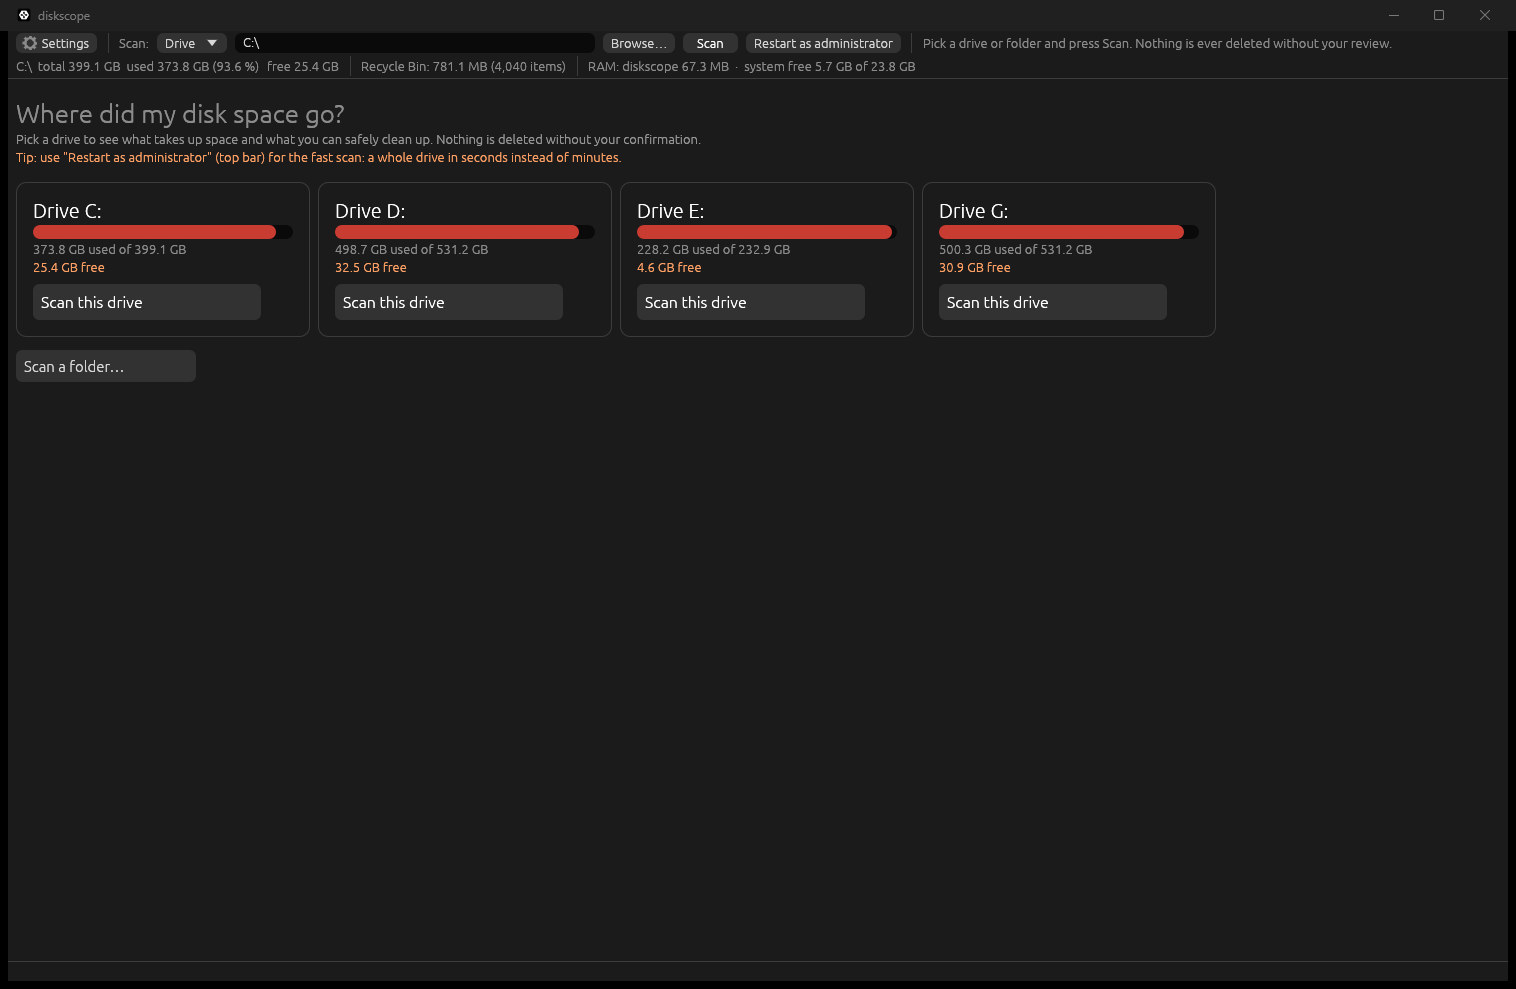
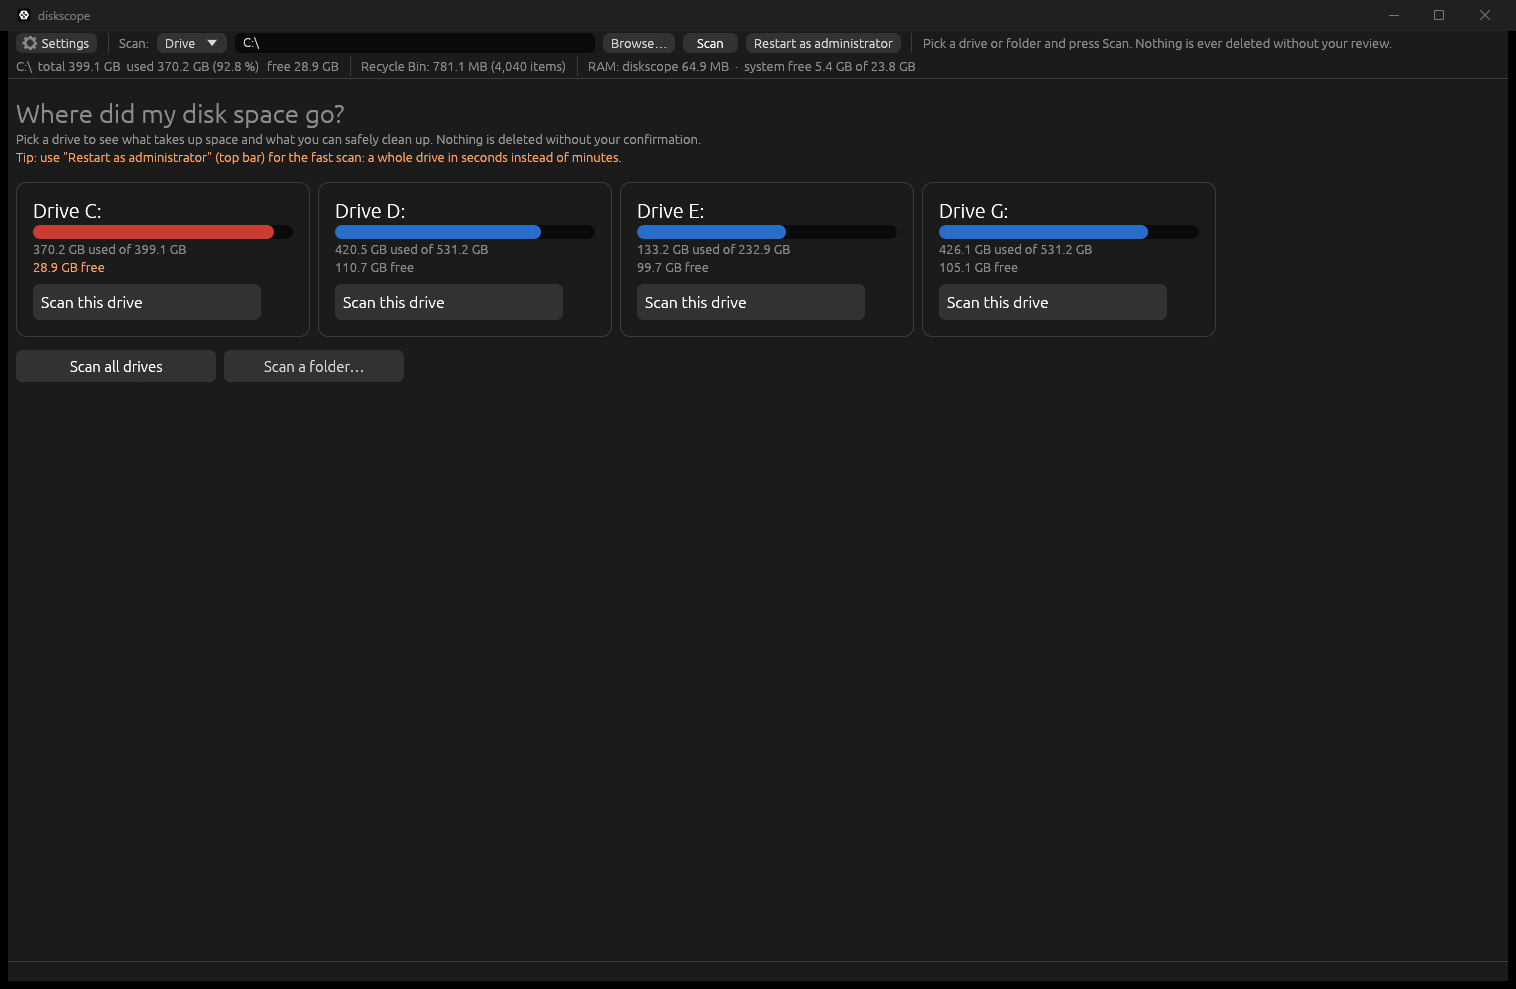
perf: drives in 'Scan all drives' run one after another (side by side: 4-8% faster, +44% peak memory); docs: v0.3.2 measured numbers, home screenshot

diff --git a/src/scan/mod.rs b/src/scan/mod.rs
@@ -55,26 +55,22 @@ pub fn scan_with(root: &Path, progress: &Progress, method: Method) -> Result<Tre
     Ok(t)
 }
 
-/// Scans several roots (drives) into one tree under a virtual "This PC" root. Each root runs its
-/// own pipeline on its own thread (DISKSCOPE_DRIVES_PAR=0: one after another, for comparisons);
-/// progress, cancel and live suggestions are shared. One root = a normal scan.
+/// Scans several roots (drives) into one tree under a virtual "This PC" root, one drive after
+/// another (each drive's scan is already parallel inside). Measured side by side on C:+D:+E:, it
+/// was only 4-8 % faster for +44 % peak memory, so drives run in turn and each one's working
+/// data is freed before the next. Progress, cancel and live suggestions are shared.
 pub fn scan_many(roots: &[PathBuf], progress: &Progress, method: Method) -> Result<Tree, String> {
     if roots.len() == 1 {
         return scan_with(&roots[0], progress, method);
     }
     let start = std::time::Instant::now();
-    let one = |r: &PathBuf| scan_with(r, progress, method);
-    let trees: Vec<Result<Tree, String>> = if profile::knob("DISKSCOPE_DRIVES_PAR", 1) != 0 {
-        std::thread::scope(|s| {
-            let hs: Vec<_> = roots.iter().map(|r| s.spawn(move || one(r))).collect();
-            hs.into_iter().map(|h| h.join().unwrap_or_else(|_| Err("scan thread panicked".into()))).collect()
-        })
-    } else {
-        roots.iter().map(one).collect()
-    };
     let mut all = Tree::multi_root();
-    for t in trees.into_iter().rev() {
-        all.graft(t?); // reversed: the first root ends up first among the drive nodes
+    for r in roots.iter().rev() {
+        // Reversed: the last graft is listed first, so the first root ends up first.
+        all.graft(scan_with(r, progress, method)?);
+        if progress.cancel.load(Relaxed) {
+            break;
+        }
     }
     all.scanned_at = crate::fmt::now();
     all.elapsed_ms = start.elapsed().as_millis() as u64;

diff --git a/src/gui/home.rs b/src/gui/home.rs
@@ -38,8 +38,8 @@ pub fn ui(ui: &mut Ui, drives: &[Drive], elevated: bool) -> Option<PathBuf> {
     ui.add_space(10.0);
     ui.horizontal(|ui| {
         if drives.len() > 1 {
-            let all = egui::Button::new(RichText::new("Scan all drives at once").size(15.0).strong()).min_size(Vec2::new(220.0, 32.0));
-            if ui.add(all).on_hover_text("Every local NTFS drive is scanned at the same time and shown in one tree (\"This PC\"). Cloud drives such as Google Drive are left out.").clicked() {
+            let all = egui::Button::new(RichText::new("Scan all drives").size(15.0).strong()).min_size(Vec2::new(200.0, 32.0));
+            if ui.add(all).on_hover_text("Every local NTFS drive, one after another, shown in one tree (\"This PC\"). Cloud drives such as Google Drive are left out.").clicked() {
                 pick = Some(PathBuf::from(crate::model::graft::ALL_DRIVES));
             }
         }

diff --git a/src/cli/mod.rs b/src/cli/mod.rs
@@ -9,7 +9,7 @@ pub const HELP: &str = "diskscope - disk usage report (read-only)
 
 USAGE:
   diskscope scan <path> [options]       scan a drive (C:) or a folder and print a report
-  diskscope scan C: D: ... | all        scan several drives at the same time (one tree;
+  diskscope scan C: D: ... | all        scan several drives into one tree (one after another;
                                          all = every local NTFS drive)
   diskscope [path]                       open the window (and scan <path> if given)
 
@@ -31,7 +31,7 @@ The CLI never deletes anything. Cleanup only happens in the window, after review
 explicit confirmation.";
 
 pub struct Options {
-    /// One path, or several drives scanned side by side into one tree.
+    /// One path, or several drives scanned into one tree.
     pub paths: Vec<PathBuf>,
     pub json: bool,
     pub top: usize,

diff --git a/src/gui/header.rs b/src/gui/header.rs
@@ -58,7 +58,7 @@ impl Header {
             ui.separator();
             ui.label("Scan:");
             egui::ComboBox::from_id_salt("drive").selected_text("Drive").width(70.0).show_ui(ui, |ui| {
-                if self.drives.len() > 1 && ui.selectable_label(false, "All drives at once (This PC)").clicked() {
+                if self.drives.len() > 1 && ui.selectable_label(false, "All drives (This PC)").clicked() {
                     self.path = crate::model::graft::ALL_DRIVES.to_string();
                 }
                 for d in &self.drives {

diff --git a/src/gui/loaded.rs b/src/gui/loaded.rs
@@ -96,7 +96,7 @@ impl Derived {
     }
 }
 
-/// "This PC" means every local NTFS drive (scanned side by side); anything else is one path.
+/// "This PC" means every local NTFS drive (one tree); anything else is one path.
 pub fn roots_of(path: &Path) -> Vec<PathBuf> {
     if is_all_drives(path) {
         crate::sys::all_drive_roots()

diff --git a/README.md b/README.md
@@ -20,8 +20,9 @@ diskscope shows where your disk space went: a folder tree, an extension table an
 
 - **Native Rust app: a single 8 MB exe.** No runtime, no installer, memory-safe code.
 - **Fast NTFS scan (run as administrator).**
-  - It reads the Master File Table directly, like WizTree: a 3.0M-item C: in **10.7 s** and a 6.7M-item D: in **9.5 s** on the test PC.
+  - It reads the Master File Table directly, like WizTree, with four reads in flight and the folder tree built in parallel: a 2.7M-item C: in **2.5 s** and a 4.5M-item D: in **3.7 s** on the test PC (v0.3.2, warm).
   - Results are within **0.4-0.6 %** of the volume's used space.
+- **Scan all drives** into one tree ("This PC"), one drive after another. Only local NTFS drives are included, so cloud drives such as Google Drive are not walked over the network.
 - **True space used.** Hard links (pnpm, conda) are counted once, so the numbers add up to what the disk really holds.
 - **Lower memory** than the tool it was compared with (see the table below; measured numbers only).
 - **Live cleanup suggestions while scanning.**
@@ -42,7 +43,7 @@ diskscope shows where your disk space went: a folder tree, an extension table an
 - **Sortable everywhere:** tree, suggestions, Review, History and every list. Click a header to sort, click again to flip; the default is size, largest first. The tree sorts one folder level at a time, so it stays instant on millions of items.
 - **Last-touch dates:** Last modified for every file and folder (a folder shows the newest change inside it) and Last accessed (the tooltip notes that Windows may not update access times), shown as dates with "N days ago" in the tooltip.
 - **Fast, safe deletes.**
-  - Permanent delete runs in parallel (32 threads); read-only files, long paths and links are handled, and links are removed, never followed.
+  - Permanent delete runs in parallel (32 threads), and several selected items are deleted at the same time on that one pool, also across drives; read-only files, long paths and links are handled, and links are removed, never followed.
   - The Recycle Bin is a single Windows operation for the whole selection.
   - Before running, diskscope warns if an item is bigger than that drive's Recycle Bin.
   - Progress shows items, files, GB and an ETA, with Cancel; the window stays responsive.
@@ -66,6 +67,20 @@ Everything below was measured on one Windows 11 PC with an NVMe SSD (C:) on 2026
 
 Both runs were measured by the same script, which polled each process's OS-reported peak working set. WizTree's wall time includes its CSV export, so treat the time column as indicative and the memory column as the main comparison.
 
+### v0.3.2 vs v0.3.1: fast NTFS scan, same PC, elevated, warm (3 runs each, after one warm-up)
+
+| Drive | v0.3.1 | v0.3.2 | Peak private memory |
+|---|---|---|---|
+| C: NVMe, 2.7M items | 4.32-4.46 s | **2.44-2.54 s** | 500 MB -> 507 MB |
+| D: NVMe, 4.5M items | 6.20-6.45 s | **3.66-3.79 s** | 787 MB -> 800 MB |
+| E: SATA SSD, 1.2M items, 3.9 GB $MFT | 10.8-11.1 s | **9.97-9.98 s** | 302 MB -> 311 MB |
+
+Where the time went (from the built-in phase timings, `DISKSCOPE_PROFILE=1`): reading `$MFT` dominates. Four reads in flight cut reading + parsing on C: from about 3.9 s to 1.9-2.5 s, and building the folder tree in parallel cut it from 1.24 s to 0.67 s (C:) and 2.2 s to 0.56 s (D:). E: is limited by the SATA disk's bandwidth (its `$MFT` alone is 3.9 GB), so it gains little.
+
+Without admin rights, the folder walker now prepares each folder (labels, grouping) outside its shared lock: time holding the lock dropped 3.6x. A warm 265k-item folder went from 0.39-0.68 s to 0.29-0.53 s; a warm C: walk (2.9M items) stays at about 10-12 s, limited by Windows' folder listing itself.
+
+Scanning C:, D: and E: side by side was measured too: 15.7-16.1 s instead of 16.5-17.6 s one after another, but with 1.34 GB instead of 0.93 GB peak memory. That is not worth it, so "Scan all drives" scans them in turn.
+
 ### Delete speed (generated junk tree, before vs after v0.3.0)
 
 | Operation | v0.2.0 | v0.3.0 |
@@ -73,9 +88,17 @@ Both runs were measured by the same script, which polled each process's OS-repor
 | Permanent delete: 200,000 small files in 10,000 folders + 3 × 200 MB | 20.2 s | 8.7 s (10.8 s through the full confirm → execute path) |
 | Recycle Bin: 500 selected folders with 10,000 files | 11.4 s | 3.6 s |
 
-Measured with `cargo test --release --test delete_bench -- --ignored --nocapture`, which only works under its own generated folder in `D:\tmp`. Run-to-run variation was about ±2 s for the permanent case.
+v0.3.2 deletes several selected items at the same time (permanent delete):
 
-### diskscope on its own
+| Selection | one item after another | v0.3.2 |
+|---|---|---|
+| 500 folders, 20 files each | 1.23 s | **0.31 s** |
+| 2,000 folders, 5 files each | 3.63 s | **0.68 s** |
+| 60 folders spread over D: (NVMe) and E: (SATA SSD), 24,000 files | 0.54-0.57 s | **0.32-0.36 s** |
+
+Measured with `cargo test --release --test delete_bench -- --ignored --nocapture`, which only works under its own generated folders (`D:\tmp`, plus a capped `E:\tmp` tree for the cross-drive row, opt-in). The Recycle Bin rows are opt-in too, so a default run puts nothing in the bin. The machine was busy with other work, so single-tree timings varied between runs (the 200,000-file tree took 9.2-11.2 s in v0.3.2 runs).
+
+### diskscope on its own (v0.1-v0.3.1 measurements)
 
 | Target | Fast NTFS (MFT) scan | Folder walker (no admin) | Accuracy |
 |---|---|---|---|
@@ -109,7 +132,7 @@ Get `diskscope.exe` from the [latest release](https://github.com/nqvinh/diskscop
 
 ![Size per automatic label, with the biggest items of the selected label](docs/images/labels.png)
 
-Command line: `diskscope.exe <folder>` opens and scans a folder. `diskscope.exe <folder> --select <item>` also selects an item, and `--tab candidates` (or `labels`, `files`, `history`, ...) opens a tab, `--ext .mp4,.mkv` lists the files of those extensions, and `--settings <file>` uses another settings file.
+Command line: `diskscope.exe <folder>` opens and scans a folder. `diskscope.exe <folder> --select <item>` also selects an item, and `--tab candidates` (or `labels`, `files`, `history`, ...) opens a tab, `--ext .mp4,.mkv` lists the files of those extensions, and `--settings <file>` uses another settings file. `diskscope.exe "This PC"` scans all local NTFS drives into one tree; the read-only CLI takes several drives too: `diskscope-cli C: D: --top 20` or `diskscope-cli all`.
 
 ## Run as administrator for the fast scan
 
@@ -136,8 +159,8 @@ Reading the MFT needs administrator rights. Without them, diskscope uses its par
 **Fast path (NTFS, elevated):**
 1. diskscope opens `\\.\C:` for reading and asks for the volume layout (`FSCTL_GET_NTFS_VOLUME_DATA`, a read-only query).
 2. It maps `$MFT`'s own data runs, including attribute-list fragments on a heavily fragmented MFT.
-3. It reads `$MFT` sequentially in 8 MiB chunks while rayon parses the FILE records in parallel. For each record it applies the update-sequence fixups, merges base and extension records, and reads the `$STANDARD_INFORMATION` times, the Win32 name (skipping DOS short names) and the unnamed `$DATA` size.
-4. It builds the folder tree from the parent references.
+3. It reads `$MFT` in 8 MiB chunks through four independent read-only handles (four reads in flight) while rayon parses the FILE records in parallel. For each record it applies the update-sequence fixups, merges base and extension records, and reads the `$STANDARD_INFORMATION` times, the Win32 name (skipping DOS short names) and the unnamed `$DATA` size.
+4. It builds the folder tree from the parent references, breadth-first: slices of folders are prepared in parallel and added in a fixed order, so the tree is identical to a serial build.
 
 **Fallback:** a 32-thread directory walker that never follows junctions, symlinks or mount points.
 
@@ -156,10 +179,13 @@ cargo build --release        # Rust 1.95 is pinned in rust-toolchain.toml
 
 ```powershell
 cargo test --release
+$env:DISKSCOPE_PROFILE = 1; .\target\release\diskscope-cli.exe C: --top 1   # phase timings on stderr
 ```
 
-71 tests cover:
-- the MFT record parser (on synthetic FILE records) and the tree builder
+75 tests cover:
+- the MFT record parser (on synthetic FILE records), the read plan for `$MFT` chunks, and the tree builder (the parallel build matches the serial one node for node)
+- several drives in one tree (paths, totals, extension ids)
+- deleting many selected items in parallel (only the listed items go)
 - aggregation, the treemap layout and the blocklist
 - suggestion rules and ranking
 - the confirmation gate, Del / Shift+Del routing, and deleting only the listed items
